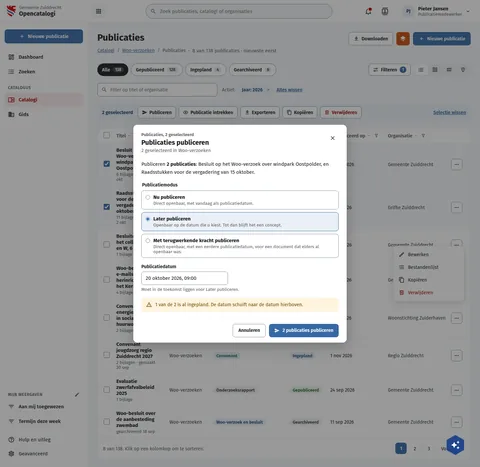
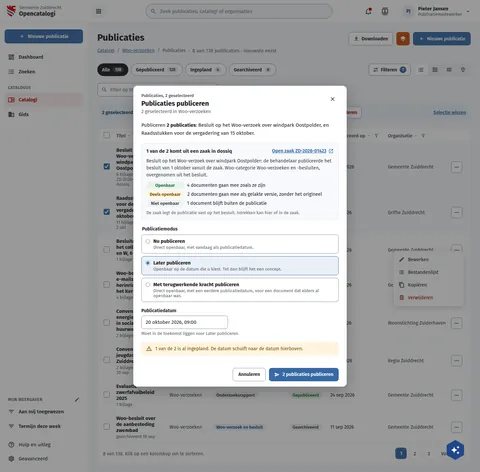
feat(screens): OcPubliceren draws the Woo decision published from a dossiq case (#906)
The publish dialog shows which selected publication came in from a case in
dossiq (decision 256, opencatalogi row woo-from-case): a link out to the
case (DqZaak), the Woo category taken from the decision, and the document
split the publication carries: public documents as they are, partly public
ones as the redacted version only, not public ones left out. The table row
names its source case. Capability note and English catalogue extended.

Assisted-by: ClaudeCode:claude-opus-5-5

diff --git a/screens-src/zuiddrecht/OcPubliceren.dc.html b/screens-src/zuiddrecht/OcPubliceren.dc.html
@@ -118,6 +118,19 @@ a{color:#3669a5}a:hover{color:#234a78}
       </div>
       <div style="padding: 20px 24px; display: flex; flex-direction: column; gap: 18px">
         <p style="margin: 0; font-size: 15px; line-height: 1.6">Publiceren <strong>2 publicaties</strong>: Besluit op het Woo-verzoek over windpark Oostpolder, en Raadsstukken voor de vergadering van 15 oktober.</p>
+        <section aria-labelledby="oc-case" style="display: flex; flex-direction: column; gap: 10px; padding: 14px; border: 1px solid #e4e6ea; border-radius: 10px; background: #f7f9fc">
+          <div style="display: flex; flex-wrap: wrap; justify-content: space-between; align-items: center; gap: 8px 16px">
+            <h3 id="oc-case" style="margin: 0; font-size: 15px; font-weight: 600">1 van de 2 komt uit een zaak in dossiq</h3>
+            <a href="DqZaak.dc.html" style="display: inline-flex; align-items: center; gap: 6px; font-size: 14px; font-weight: 600">Open zaak ZD-2026-01423<svg width="16" height="16" viewBox="0 0 24 24" fill="currentColor" aria-hidden="true"><path d="M14,3V5H17.59L7.76,14.83L9.17,16.24L19,6.41V10H21V3M19,19H5V5H12V3H5C3.89,3 3,3.9 3,5V19A2,2 0 0,0 5,21H19A2,2 0 0,0 21,19V12H19V19Z"></path></svg></a>
+          </div>
+          <p style="margin: 0; font-size: 14px; line-height: 1.5; color: #3d4047">Besluit op het Woo-verzoek over windpark Oostpolder: de behandelaar publiceerde het besluit van 1 oktober vanuit de zaak. Woo-categorie Woo-verzoeken en -besluiten, overgenomen uit het besluit.</p>
+          <ul style="margin: 0; padding: 0; list-style: none; display: flex; flex-direction: column; gap: 6px; font-size: 14px">
+            <sc-for list="{{ caseDocs }}" as="d" hint-placeholder-count="3">
+              <li style="display: flex; align-items: center; gap: 10px"><span style="{{ d.badgeStyle }}">{{ d.badge }}</span><span style="color: #1b1c1d">{{ d.text }}</span></li>
+            </sc-for>
+          </ul>
+          <span style="font-size: 13px; color: #5e6168">De zaak legt de publicatie vast op het besluit. Intrekken kan hier of in de zaak.</span>
+        </section>
         <fieldset style="margin: 0; padding: 0; border: 0; display: flex; flex-direction: column; gap: 8px"><legend style="font-size: 14px; font-weight: 600; color: #1b1c1d; margin-bottom: 8px">Publicatiemodus</legend>
           <label style="display: flex; gap: 10px; align-items: flex-start; padding: 10px 12px; border: 1px solid #828a95; border-radius: 8px; "><input type="radio" name="oc-pmode"  style="margin: 3px 0 0; accent-color: #3669a5"><span style="display: flex; flex-direction: column; gap: 2px"><strong style="font-size: 15px">Nu publiceren</strong><span style="font-size: 13px; color: #5e6168">Direct openbaar, met vandaag als publicatiedatum.</span></span></label>
           <label style="display: flex; gap: 10px; align-items: flex-start; padding: 10px 12px; border: 1px solid #3669a5; border-radius: 8px; background: #eaf0f7;"><input type="radio" name="oc-pmode" checked style="margin: 3px 0 0; accent-color: #3669a5"><span style="display: flex; flex-direction: column; gap: 2px"><strong style="font-size: 15px">Later publiceren</strong><span style="font-size: 13px; color: #5e6168">Openbaar op de datum die u kiest. Tot dan blijft het een concept.</span></span></label>
@@ -151,7 +164,7 @@ class Component extends DCLogic {
     const K = { 'Woo-verzoek en besluit': st('#eaf0f7', '#234a78'), 'Convenant': st('#e3f1f3', '#1d5e66'), 'Vergaderstukken': st('#e8e6f6', '#4a3f8f'), 'Onderzoeksrapport': st('#f0f1f3', '#3d4047'), 'Besluitenlijsten van het college': st('#fff4de', '#7a4f00') };
     const S = { 'Gepubliceerd': st('#e7f3ea', '#1e6b2a'), 'Ingepland': st('#eaf0f7', '#234a78'), 'Gearchiveerd': st('#f0f1f3', '#3d4047') };
     const rows = [
-      ['Besluit op het Woo-verzoek over windpark Oostpolder', '6 bijlagen · gemaakt 1 okt', 'Woo-verzoeken', 'Woo-verzoek en besluit', 'Ingepland', '20 okt 2026', 'Gemeente Zuiddrecht'],
+      ['Besluit op het Woo-verzoek over windpark Oostpolder', '6 bijlagen · uit zaak ZD-2026-01423 in dossiq', 'Woo-verzoeken', 'Woo-verzoek en besluit', 'Ingepland', '20 okt 2026', 'Gemeente Zuiddrecht'],
       ['Raadsstukken voor de vergadering van 15 oktober', '11 bijlagen · gemaakt 2 okt', 'Woo-verzoeken', 'Vergaderstukken', 'Ingepland', '9 okt 2026', 'Griffie Zuiddrecht'],
       ['Besluitenlijst van het college van B en W, 6 oktober', '1 bijlage', 'Woo-verzoeken', 'Besluitenlijsten van het college', 'Gepubliceerd', '6 okt 2026', 'Gemeente Zuiddrecht'],
       ['Woo-besluit over e-mails over de herinrichting van het Kerkplein', '4 bijlagen', 'Woo-verzoeken', 'Woo-verzoek en besluit', 'Gepubliceerd', '5 okt 2026', 'Gemeente Zuiddrecht'],
@@ -166,7 +179,13 @@ class Component extends DCLogic {
     const dqView = (on) => 'display: flex; align-items: center; gap: 8px; height: 38px; padding: 0 14px; border-radius: 19px; font: 600 14px \'Fira Sans\', sans-serif; ' + (on ? 'border: 0; background: #1b1c1d; color: #ffffff;' : 'border: 1px solid #828a95; background: #ffffff; color: #1b1c1d;');
     const dqCount = (on) => 'padding: 1px 7px; border-radius: 10px; font-size: 12px; ' + (on ? 'background: #3d4047; color: #ffffff;' : 'background: #e4e6ea; color: #3d4047;');
     views.forEach((v) => { const on = v.sel === 'true' || v.pressed === 'true'; v.pressed = on ? 'true' : 'false'; v.style = dqView(on); v.countStyle = dqCount(on); });
-    return { nav, views, modes, rows, menu, mass };
+    const badge = (bg, fg) => 'display: inline-block; min-width: 112px; box-sizing: border-box; text-align: center; padding: 3px 10px; border-radius: 12px; font-size: 13px; font-weight: 600; white-space: nowrap; background: ' + bg + '; color: ' + fg;
+    const caseDocs = [
+      ['Openbaar', badge('#e7f3ea', '#1e6b2a'), '4 documenten gaan mee zoals ze zijn'],
+      ['Deels openbaar', badge('#fff4de', '#7a4f00'), '2 documenten gaan mee als gelakte versie, zonder het origineel'],
+      ['Niet openbaar', badge('#f0f1f3', '#3d4047'), '1 document blijft buiten de publicatie']
+    ].map(([label, badgeStyle, text]) => ({ badge: label, badgeStyle, text }));
+    return { nav, views, modes, rows, menu, mass, caseDocs };
     })();
     const dlg = (() => {
     const nav = [
@@ -182,7 +201,7 @@ class Component extends DCLogic {
     const K = { 'Woo-verzoek en besluit': st('#eaf0f7', '#234a78'), 'Convenant': st('#e3f1f3', '#1d5e66'), 'Vergaderstukken': st('#e8e6f6', '#4a3f8f'), 'Onderzoeksrapport': st('#f0f1f3', '#3d4047'), 'Besluitenlijsten van het college': st('#fff4de', '#7a4f00') };
     const S = { 'Gepubliceerd': st('#e7f3ea', '#1e6b2a'), 'Ingepland': st('#eaf0f7', '#234a78'), 'Gearchiveerd': st('#f0f1f3', '#3d4047') };
     const rows = [
-      ['Besluit op het Woo-verzoek over windpark Oostpolder', '6 bijlagen · gemaakt 1 okt', 'Woo-verzoeken', 'Woo-verzoek en besluit', 'Ingepland', '20 okt 2026', 'Gemeente Zuiddrecht'],
+      ['Besluit op het Woo-verzoek over windpark Oostpolder', '6 bijlagen · uit zaak ZD-2026-01423 in dossiq', 'Woo-verzoeken', 'Woo-verzoek en besluit', 'Ingepland', '20 okt 2026', 'Gemeente Zuiddrecht'],
       ['Raadsstukken voor de vergadering van 15 oktober', '11 bijlagen · gemaakt 2 okt', 'Woo-verzoeken', 'Vergaderstukken', 'Ingepland', '9 okt 2026', 'Griffie Zuiddrecht'],
       ['Besluitenlijst van het college van B en W, 6 oktober', '1 bijlage', 'Woo-verzoeken', 'Besluitenlijsten van het college', 'Gepubliceerd', '6 okt 2026', 'Gemeente Zuiddrecht'],
       ['Woo-besluit over e-mails over de herinrichting van het Kerkplein', '4 bijlagen', 'Woo-verzoeken', 'Woo-verzoek en besluit', 'Gepubliceerd', '5 okt 2026', 'Gemeente Zuiddrecht'],

diff --git a/preview/screens/boards/OcPubliceren.html b/preview/screens/boards/OcPubliceren.html
@@ -189,7 +189,7 @@ a{color:var(--sc-primary, #3669a5)}a:hover{color:var(--sc-primary-deep, #234a78)
                 
                   <tr style="background: #f7f9fc">
                     <td style="padding: 12px 0 12px 18px; border-bottom: 1px solid var(--sc-work-soft, #eef0f3)"><input type="checkbox" aria-label="Selecteer Besluit op het Woo-verzoek over windpark Oostpolder" checked style="width: 18px; height: 18px; margin: 0; accent-color: var(--sc-primary, #3669a5)"></td>
-                    <td style="padding: 12px 18px 12px 10px; border-bottom: 1px solid var(--sc-work-soft, #eef0f3)"><a href="OcPublicatie.html" style="display: flex; flex-direction: column; gap: 2px; color: var(--sc-work-ink, #1b1c1d); text-decoration: none"><strong style="font-size: 15px">Besluit op het Woo-verzoek over windpark Oostpolder</strong><span style="font-size: 13px; color: var(--sc-work-muted, #5e6168)">6 bijlagen · gemaakt 1 okt</span></a></td>
+                    <td style="padding: 12px 18px 12px 10px; border-bottom: 1px solid var(--sc-work-soft, #eef0f3)"><a href="OcPublicatie.html" style="display: flex; flex-direction: column; gap: 2px; color: var(--sc-work-ink, #1b1c1d); text-decoration: none"><strong style="font-size: 15px">Besluit op het Woo-verzoek over windpark Oostpolder</strong><span style="font-size: 13px; color: var(--sc-work-muted, #5e6168)">6 bijlagen · uit zaak ZD-2026-01423 in dossiq</span></a></td>
                     <td style="padding: 12px; border-bottom: 1px solid var(--sc-work-soft, #eef0f3); white-space: nowrap; color: var(--sc-work-text, #3d4047)">Woo-verzoeken</td>
                     <td style="padding: 12px; border-bottom: 1px solid var(--sc-work-soft, #eef0f3)"><span style="display: inline-block; padding: 3px 10px; border-radius: 12px; font-size: 13px; font-weight: 600; white-space: nowrap; background: var(--sc-primary-light, #eaf0f7); color: var(--sc-primary-deep, #234a78)">Woo-verzoek en besluit</span></td>
                     <td style="padding: 12px; border-bottom: 1px solid var(--sc-work-soft, #eef0f3)"><span style="display: inline-block; padding: 3px 10px; border-radius: 12px; font-size: 13px; font-weight: 600; white-space: nowrap; background: var(--sc-primary-light, #eaf0f7); color: var(--sc-primary-deep, #234a78)">Ingepland</span></td>
@@ -325,6 +325,23 @@ a{color:var(--sc-primary, #3669a5)}a:hover{color:var(--sc-primary-deep, #234a78)
       </div>
       <div style="padding: 20px 24px; display: flex; flex-direction: column; gap: 18px">
         <p style="margin: 0; font-size: 15px; line-height: 1.6">Publiceren <strong>2 publicaties</strong>: Besluit op het Woo-verzoek over windpark Oostpolder, en Raadsstukken voor de vergadering van 15 oktober.</p>
+        <section aria-labelledby="oc-case" style="display: flex; flex-direction: column; gap: 10px; padding: 14px; border: 1px solid var(--sc-work-line, #e4e6ea); border-radius: 10px; background: #f7f9fc">
+          <div style="display: flex; flex-wrap: wrap; justify-content: space-between; align-items: center; gap: 8px 16px">
+            <h3 id="oc-case" style="margin: 0; font-size: 15px; font-weight: 600">1 van de 2 komt uit een zaak in dossiq</h3>
+            <a href="DqZaak.html" style="display: inline-flex; align-items: center; gap: 6px; font-size: 14px; font-weight: 600">Open zaak ZD-2026-01423<svg width="16" height="16" viewbox="0 0 24 24" fill="currentColor" aria-hidden="true"><path d="M14,3V5H17.59L7.76,14.83L9.17,16.24L19,6.41V10H21V3M19,19H5V5H12V3H5C3.89,3 3,3.9 3,5V19A2,2 0 0,0 5,21H19A2,2 0 0,0 21,19V12H19V19Z"></path></svg></a>
+          </div>
+          <p style="margin: 0; font-size: 14px; line-height: 1.5; color: var(--sc-work-text, #3d4047)">Besluit op het Woo-verzoek over windpark Oostpolder: de behandelaar publiceerde het besluit van 1 oktober vanuit de zaak. Woo-categorie Woo-verzoeken en -besluiten, overgenomen uit het besluit.</p>
+          <ul style="margin: 0; padding: 0; list-style: none; display: flex; flex-direction: column; gap: 6px; font-size: 14px">
+            
+              <li style="display: flex; align-items: center; gap: 10px"><span style="display: inline-block; min-width: 112px; box-sizing: border-box; text-align: center; padding: 3px 10px; border-radius: 12px; font-size: 13px; font-weight: 600; white-space: nowrap; background: #e7f3ea; color: #1e6b2a">Openbaar</span><span style="color: var(--sc-work-ink, #1b1c1d)">4 documenten gaan mee zoals ze zijn</span></li>
+            
+              <li style="display: flex; align-items: center; gap: 10px"><span style="display: inline-block; min-width: 112px; box-sizing: border-box; text-align: center; padding: 3px 10px; border-radius: 12px; font-size: 13px; font-weight: 600; white-space: nowrap; background: #fff4de; color: #7a4f00">Deels openbaar</span><span style="color: var(--sc-work-ink, #1b1c1d)">2 documenten gaan mee als gelakte versie, zonder het origineel</span></li>
+            
+              <li style="display: flex; align-items: center; gap: 10px"><span style="display: inline-block; min-width: 112px; box-sizing: border-box; text-align: center; padding: 3px 10px; border-radius: 12px; font-size: 13px; font-weight: 600; white-space: nowrap; background: var(--sc-work-chip, #f0f1f3); color: var(--sc-work-text, #3d4047)">Niet openbaar</span><span style="color: var(--sc-work-ink, #1b1c1d)">1 document blijft buiten de publicatie</span></li>
+            
+          </ul>
+          <span style="font-size: 13px; color: var(--sc-work-muted, #5e6168)">De zaak legt de publicatie vast op het besluit. Intrekken kan hier of in de zaak.</span>
+        </section>
         <fieldset style="margin: 0; padding: 0; border: 0; display: flex; flex-direction: column; gap: 8px"><legend style="font-size: 14px; font-weight: 600; color: var(--sc-work-ink, #1b1c1d); margin-bottom: 8px">Publicatiemodus</legend>
           <label style="display: flex; gap: 10px; align-items: flex-start; padding: 10px 12px; border: 1px solid var(--sc-work-field, #828a95); border-radius: 8px; "><input type="radio" name="oc-pmode" style="margin: 3px 0 0; accent-color: var(--sc-primary, #3669a5)"><span style="display: flex; flex-direction: column; gap: 2px"><strong style="font-size: 15px">Nu publiceren</strong><span style="font-size: 13px; color: var(--sc-work-muted, #5e6168)">Direct openbaar, met vandaag als publicatiedatum.</span></span></label>
           <label style="display: flex; gap: 10px; align-items: flex-start; padding: 10px 12px; border: 1px solid var(--sc-primary, #3669a5); border-radius: 8px; background: var(--sc-primary-light, #eaf0f7);"><input type="radio" name="oc-pmode" checked style="margin: 3px 0 0; accent-color: var(--sc-primary, #3669a5)"><span style="display: flex; flex-direction: column; gap: 2px"><strong style="font-size: 15px">Later publiceren</strong><span style="font-size: 13px; color: var(--sc-work-muted, #5e6168)">Openbaar op de datum die u kiest. Tot dan blijft het een concept.</span></span></label>
